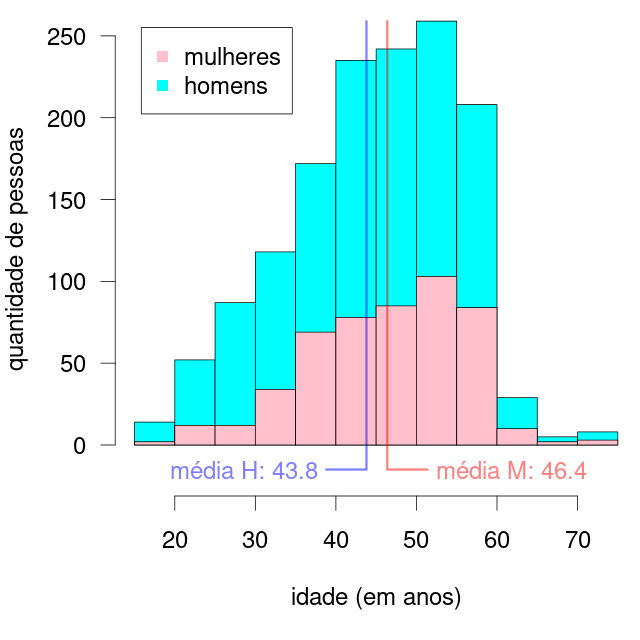
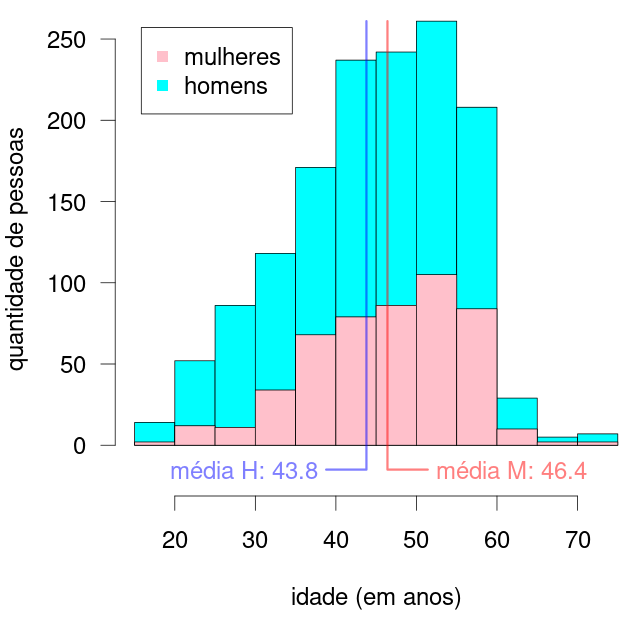
Update report

diff --git a/README.md b/README.md
@@ -6,24 +6,53 @@
 Este repositório contém os dados publicados pela Secretaria de Estado de Administração Penitenciária do Distrito Federal (SEAPE-DF), assim que o programa em R para análise demográfica dos mesmos.
 
 A lista de pessoas presas nos atos terroristas na Praça dos Três Poderes é atualizada frequentemente 
-na [ṕagina da SEAPE-DF](https://seape.df.gov.br/prisoes-dos-atentados-bsb/), contendo os nomes completos e as datas de nascimento das pessoas.
+na [ṕagina da SEAPE-DF](https://seape.df.gov.br/prisoes-dos-atentados-bsb/), contendo os nomes completos, as datas de nascimento e o estado de origem das pessoas.
 
 
 ## Análise
 
-A [lista atual](presos.csv), contém 1430 nomes. Esta lista não corresponde à ultima listagem disponibilizada pela SEAPE, que contém 1382 nomes, na listagem publicada em 19 de janeiro de 2023. Todos os nomes que figuravam nas listas previamente publicadas foram mantidos. 
-
-Destas 1430 pessoas, 495 são mulheres e 935 são homens. Uma pessoa com idade de 123 anos foi suprimida da análise, pois acredito tratar-se de um erro de digitação. A análise aqui presente é assim relativa a 1429 pessoas (494 mulheres e 935 homens).
+A [lista atual](presos.csv), contém 1430 nomes. Esta lista não corresponde à ultima listagem disponibilizada pela SEAPE, que contém 1382 nomes, na listagem publicada em 20 de janeiro de 2023. Todos os nomes que figuravam nas listas previamente publicadas foram mantidos. Destas 1430 pessoas, 495 são mulheres e 935 são homens. 
 
 A distribuição de idades é mostrada no gráfico abaixo, com as pessoas agrupadas em faixas etárias de 5 anos. Mulheres são representadas na cor rosa e homens na cor azul.
 
 ![figure](histograma-idades.png)
 
-A idade mínima é de 18,1 anos e a máxima de 74.8 anos. 66% das pessoas têm entre 40 e 60 anos e 35,1% deles têm entre 45 e 55 anos. Está claro que o grosso do contingente é formado por pessoas de meia idade.
+A idade mínima é de 18,1 anos e a máxima de 74.8 anos. 66,3% das pessoas têm entre 40 e 60 anos e 35,1% deles têm entre 45 e 55 anos. Está claro que o grosso do contingente é formado por pessoas de meia idade.
 
-A mediana de idade das mulheres é de 47,8 anos e a dos homens de 44,9 anos. A média de idade das mulheres é de 46,4 anos e a dos homens é de 43,8 anos. Esta diferença de idade de 2,6 anos entre homens e mulheres é estatisticamente significativa (_p_ < 0.001).
+A mediana de idade das mulheres é de 47,9 anos e a dos homens de 44,9 anos. A média de idade das mulheres é de 46,4 anos e a dos homens é de 43,8 anos. Esta diferença de idade de 2,6 anos entre homens e mulheres é estatisticamente significativa (_p_ < 0.001).
 
 Cabe observar que a faixa de idade com maior representatividade entre as mulheres é entre 50 e 55 anos.
+
+O número de pessoas por estado está indicado na tabela abaixo (a informação do estado de origem está ausente para 46 pessoas):
+
+|estado|número|
+|-|-|
+|SP|271|
+|MG|200|
+|PR|131|
+|MT|103|
+|RS|102|
+|SC|89|
+|DF|83|
+|BA|67|
+|GO|49|
+|RO|42|
+|PA|40|
+|RJ|34|
+|MS|32|
+|CE|25|
+|TO|20|
+|ES|18|
+|PB|15|
+|AL|13|
+|MA|11|
+|PE|11|
+|RN|9|
+|PI|8|
+|AM|6|
+|AC|3|
+|RR|1|
+|SE|1|
 
 
 ## Author
